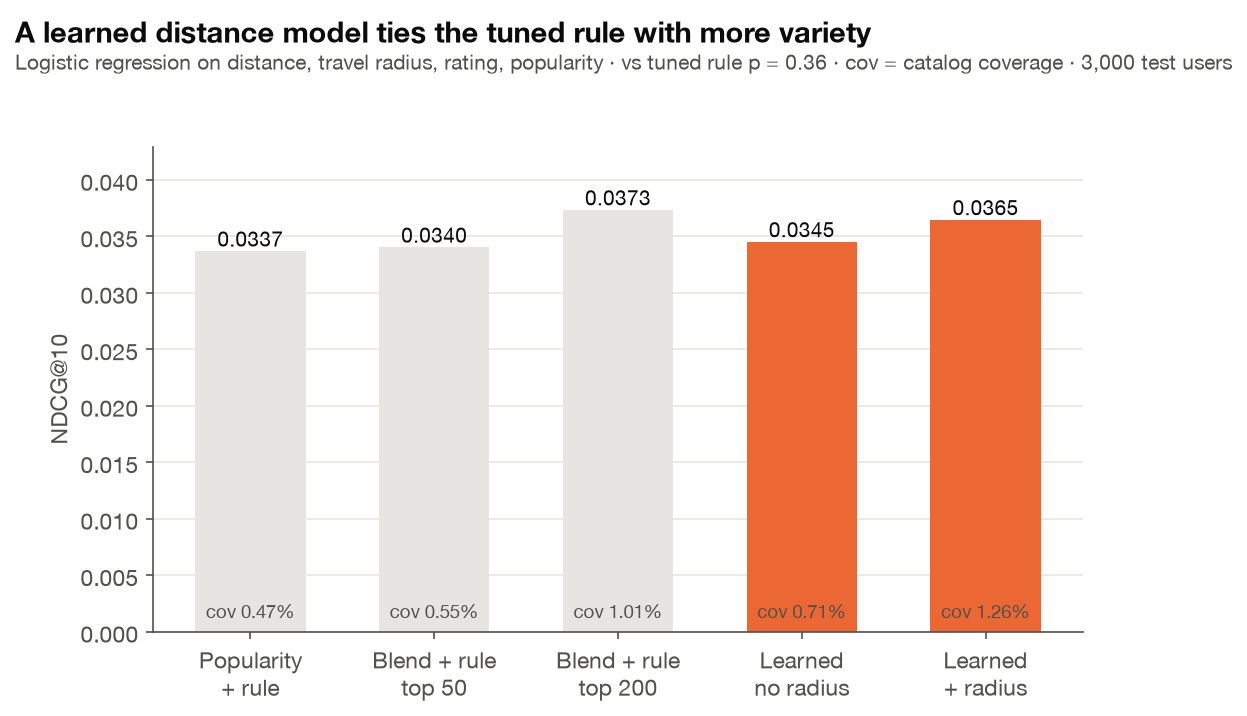
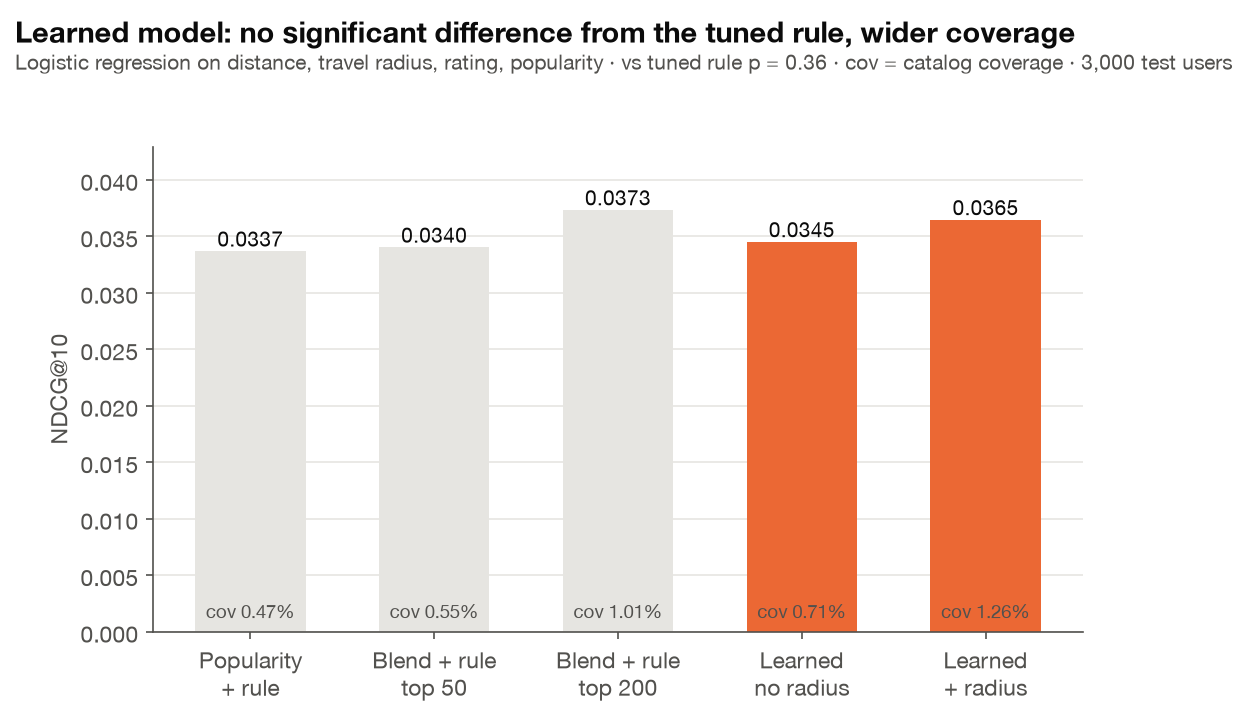
docs: 유의하지 않은 차이를 같다고 쓰지 않도록 표현 수정
- p = 0.36은 차이의 증거가 없다는 뜻이라 "같다" 대신 "유의한 차이를
  찾지 못했다"로, 커버리지는 점 추정값임을 명시
- 개인 반경이 다양성을 높이는 이유는 검증하지 않은 가설로 표기
- L1 그림 제목, README 요약도 같은 기준으로 수정
- test_visit 픽스처: 기준점을 장소 0에 고정해 거리 차이를 분명히 함
(CodeRabbit 리뷰)

Related to #48

Changed region(s): [[0.0, 0.0307, 0.8837, 0.0615]]

diff --git a/tests/test_visit.py b/tests/test_visit.py
@@ -49,9 +49,10 @@ def test_to_dict_round_trip():
 
 
 def _toy():
-    # 3 places on a north-south line, user 0 rated places 0 and 1
+    # 3 places on a north-south line, 0 km / ~1.1 km / ~11 km from user 0's anchor
+    # (user 0 rated only place 0, so the anchor is place 0)
     items = pd.DataFrame({"i": range(3), "lat": [40.0, 40.01, 40.1], "lon": [-75.0] * 3})
-    train = pd.DataFrame({"u": [0, 0, 1], "i": [0, 1, 2]})
+    train = pd.DataFrame({"u": [0, 1], "i": [0, 2]})
     anchors = user_anchors(train, items, 2)
     return items, train, VisitFeatures(items, train, anchors, np.array([10.0, 1.0, 0.0]))
 
@@ -62,7 +63,7 @@ def test_features_and_radius():
     assert X.shape == (2, 5)
     assert X[0, 0] < X[1, 0]  # place 0 is nearer the anchor than place 2
     assert np.isclose(X[0, 4], np.log1p(10.0)) and X[1, 3] == 3.0
-    assert f.radius[1] == 0.5  # one training place: radius 0, raised to the floor
+    assert f.radius[0] == f.radius[1] == 0.5  # one training place: radius 0, raised to the floor
 
 
 def test_rank_learned_prefers_near_places_when_distance_weight_is_negative():

diff --git a/experiments/figures.py b/experiments/figures.py
@@ -278,7 +278,7 @@ def l1_learned():
     ax.set_ylabel("NDCG@10")
     ax.set_ylim(0, max(vals) * 1.15)
     p = d["paired_vs_fixed"][fixed200]["learned (with personal radius)"]["p"]
-    titled(fig, "A learned distance model ties the tuned rule with more variety",
+    titled(fig, "Learned model: no significant difference from the tuned rule, wider coverage",
            f"Logistic regression on distance, travel radius, rating, popularity · vs tuned rule p = {p:.2f} "
            "· cov = catalog coverage · 3,000 test users")
     save(fig, "L1_learned_vs_fixed")

diff --git a/README.md b/README.md
@@ -119,7 +119,7 @@ python demo/bakery_tour.py --straight   # 다운로드 없이 직선 연결
 
 **랭킹 개선** (`results/popularity.json`): 예측 별점만으로는 인기순(P@10 0.0094)을 이기지 못한다. 별점에 log 인기도를 섞고(γ = 5) 거리 재순위화를 하면 P@10 0.0102지만, 인기순 + 거리(0.0100)와 사실상 같다. 이 데이터에서 랭킹 신호는 대부분 인기도와 거리에서 나온다.
 
-**거리 민감도 학습** (`results/learned_distance.json`, [설명](docs/ML_Learned_Distance.md)): 고정 규칙 `e^(-d/2km)` 대신 로지스틱 회귀(직접 구현한 경사하강법 + L2)로 거리, 개인 이동 반경, 예상 별점, 인기도의 가중치를 학습했다. 기존 설정보다 NDCG@10이 유의하게 높고(0.0340 → 0.0365, p = 0.003), 검증으로 튜닝한 고정 규칙과는 같은 정확도(p = 0.36)에 커버리지가 더 넓다(1.01% → 1.26%). 개인 이동 반경을 빼면 유의하게 나빠진다. 1km 지점에서 1km 더 멀어지는 손해는 인기도 1.56배로 상쇄된다.
+**거리 민감도 학습** (`results/learned_distance.json`, [설명](docs/ML_Learned_Distance.md)): 고정 규칙 `e^(-d/2km)` 대신 로지스틱 회귀(직접 구현한 경사하강법 + L2)로 거리, 개인 이동 반경, 예상 별점, 인기도의 가중치를 학습했다. 기존 설정보다 NDCG@10이 유의하게 높고(0.0340 → 0.0365, p = 0.003), 검증으로 튜닝한 고정 규칙과는 유의한 차이를 찾지 못했고(p = 0.36), 커버리지는 더 넓었다(1.01% → 1.26%, 점 추정값). 개인 이동 반경을 빼면 유의하게 나빠진다. 1km 지점에서 1km 더 멀어지는 손해는 인기도 1.56배로 상쇄된다.
 
 ## 참고 문헌과 코드 출처
 
